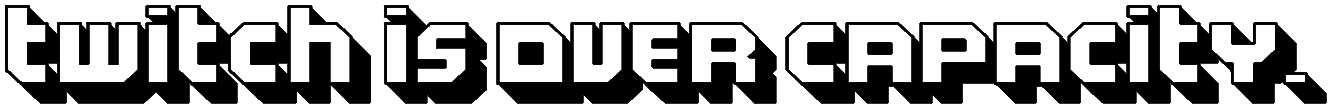
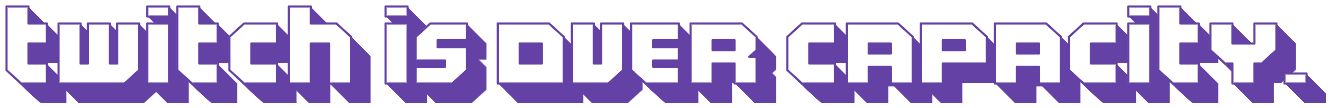
v1

diff --git a/style.css b/style.css
@@ -1,35 +1,103 @@
-/* 設置網頁字體樣式 */
+/* 設置網頁字體樣式 /
+/ 設置 HTML 根元素字體為 TwitchGothic，備選字體為 sans-serif /
+/ 將 HTML 根元素高度設置為 100%，背景顏色為 #6441A5 */
 html {
-    /* 使用指定字體，如果無法加載則依次使用後面的備選字體 */
-    font-family: 'Helvetica Neue', Helvetica, Arial, sans-serif;
-    height: 100%;  /* 將 HTML 根元素高度設置為 100% */
-    background-color:#6441A5;
+    font-family: "TwitchGothic", sans-serif;
+    height: 100%;
+    background-color: white;
 }
 
+/* 定義 TwitchGothic 字體 */
 @font-face {
     font-family: "TwitchGothic";
     src: url("TwitchGothic.ttf");
 }
 
-p{
-    font-size: 50px;
+/* 設置 p 標籤的字體大小、位置、顏色和使用 flex 佈局 */
+p {
+    font-size: 20px;
     position: relative;
-    color: white;
+    color: #6441A5;
     display: flex;
 }
-#description{
+
+/* 設置 id 為 description 的圖片水平置中 */
+#description {
     display: block;
     margin: auto;
     position: relative;
 }
 
-.Text-Logo{
+/* 設置文字部分的 Twitch logo 水平置中 */
+.Text-Logo {
     display: flex;
     justify-content: center;
     align-items: center;
 }
 
-.Text #hold\&wait{
-    font-size: 50px;
+/* 設置 id 為 hold&wait 的段落文字水平置中 */
+.Text p {
+    font-size: 30px;
+    justify-content: center;
     text-align: center;
+}
+
+#hold\&wait{
+    font-size: 18px;
+}
+
+a:visited{
+    color:mediumpurple;
+}
+
+.relative_page{
+    position: absolute;
+    left: 50%;
+    bottom: 5px;
+    transform: translateX(-50%);
+}
+
+.loader{
+    font-size: 48px;
+    color: #6441A5;
+    display: inline-block;
+    font-family: "TwitchGothic", sans-serif;
+    font-weight: 400;
+    position: relative;
+    left: 50%;
+    transform: translateX(-50%);
+}
+
+.loader:before{
+    content: '';
+    animation: 5s print linear alternate infinite;
+}
+.loader:after{
+    content: '';
+    position: absolute;
+    right: -4px;
+    top: 50%;
+    transform: translatey(-45%);
+    width: 2px;
+    height: 1.3em;
+    background: currentColor;
+    opacity: 0.8;
+    animation: 1s blink steps(2) infinite;
+}
+
+@keyframes blink {
+    0%  { visibility: hidden;}
+    100%  { visibility: visible;}
+}
+@keyframes print {
+    0% { content: 'L'}
+    10% { content: 'Lo'}
+    20% { content: 'Loa'}
+    30% { content: 'Load'}
+    40% { content: 'Loadi'}
+    50% { content: 'Loadin'}
+    60% { content: 'Loading'}
+    70% { content: 'Loading.'}
+    80% { content: 'Loading..'}
+    90% , 100% { content: 'Loading...'}
 }

diff --git a/index.html b/index.html
@@ -7,17 +7,29 @@
     <link rel="stylesheet" href="style.css">
 </head>
 <body>
+<!-- 最上方的twitch-wordmark圖示 -->
 <div class="Text-Logo">
-    <img src="Twitch_logo_2019.svg.png" alt="twitch text-logo" width="200px">
+    <img src="icons-twitch-wordmark-500.png" alt="twitch Icon" width="200px">
 </div>
+<!-- 介紹發上甚麼問題 -->
 <div class="Text">
-    <img id="description" src="twitch%20text-1.png" alt="description of error">
+    <img id="description" src="twitch text.png" alt="description of error">
     <p id="hold&wait">
-        plese hold and wait.
-        If you wait a long time and still not into the page.
+        please hold and wait.
+        If you've been waiting for a long time and still can't access the page
     <p/>
-    <p>plese F5,or&nbsp;<a href="index.html" class="my-button">click here</a></p>
+    <p> please press F5,or&nbsp;<a href="index.html">click here</a></p>
 </div>
-<img src="logo.png">
+<!-- loading 動畫 -->
+<span class="loader"></span>
+<!-- 下方相關網站按鈕 -->
+<div class="relative_page">
+    <a href="https://blog.twitch.tv/zh-tw/" target="_blank"><img id="icon" src="twitch-icon.png" alt="twitch Icon"
+                                                                 width="50px"></a>
+    <a href="https://twitter.com/twitch" target="_blank"><img src="Twitter-logo.svg.webp" width="60px"></a>
+    <a href="https://www.facebook.com/TwitchTW/" target="_blank"><img src="fb-icon.svg" width="55px"></a>
+    <a href="https://www.instagram.com/twitch/" target="_blank"><img src="instagram-icon.png" width="50px"></a>
+</div>
 </body>
 </html>
+

diff --git a/animate.js b/animate.js
@@ -1,0 +1,5 @@
+// 在DOM元素加載完成後，使用JavaScript將每個字元包裹在一個 <span> 元素中
+document.addEventListener('DOMContentLoaded', function() {
+    let myText = document.getElementById('myText');
+    myText.innerHTML = myText.textContent.replace(/\S/g, "<span class='letter'>$&</span>");
+});
